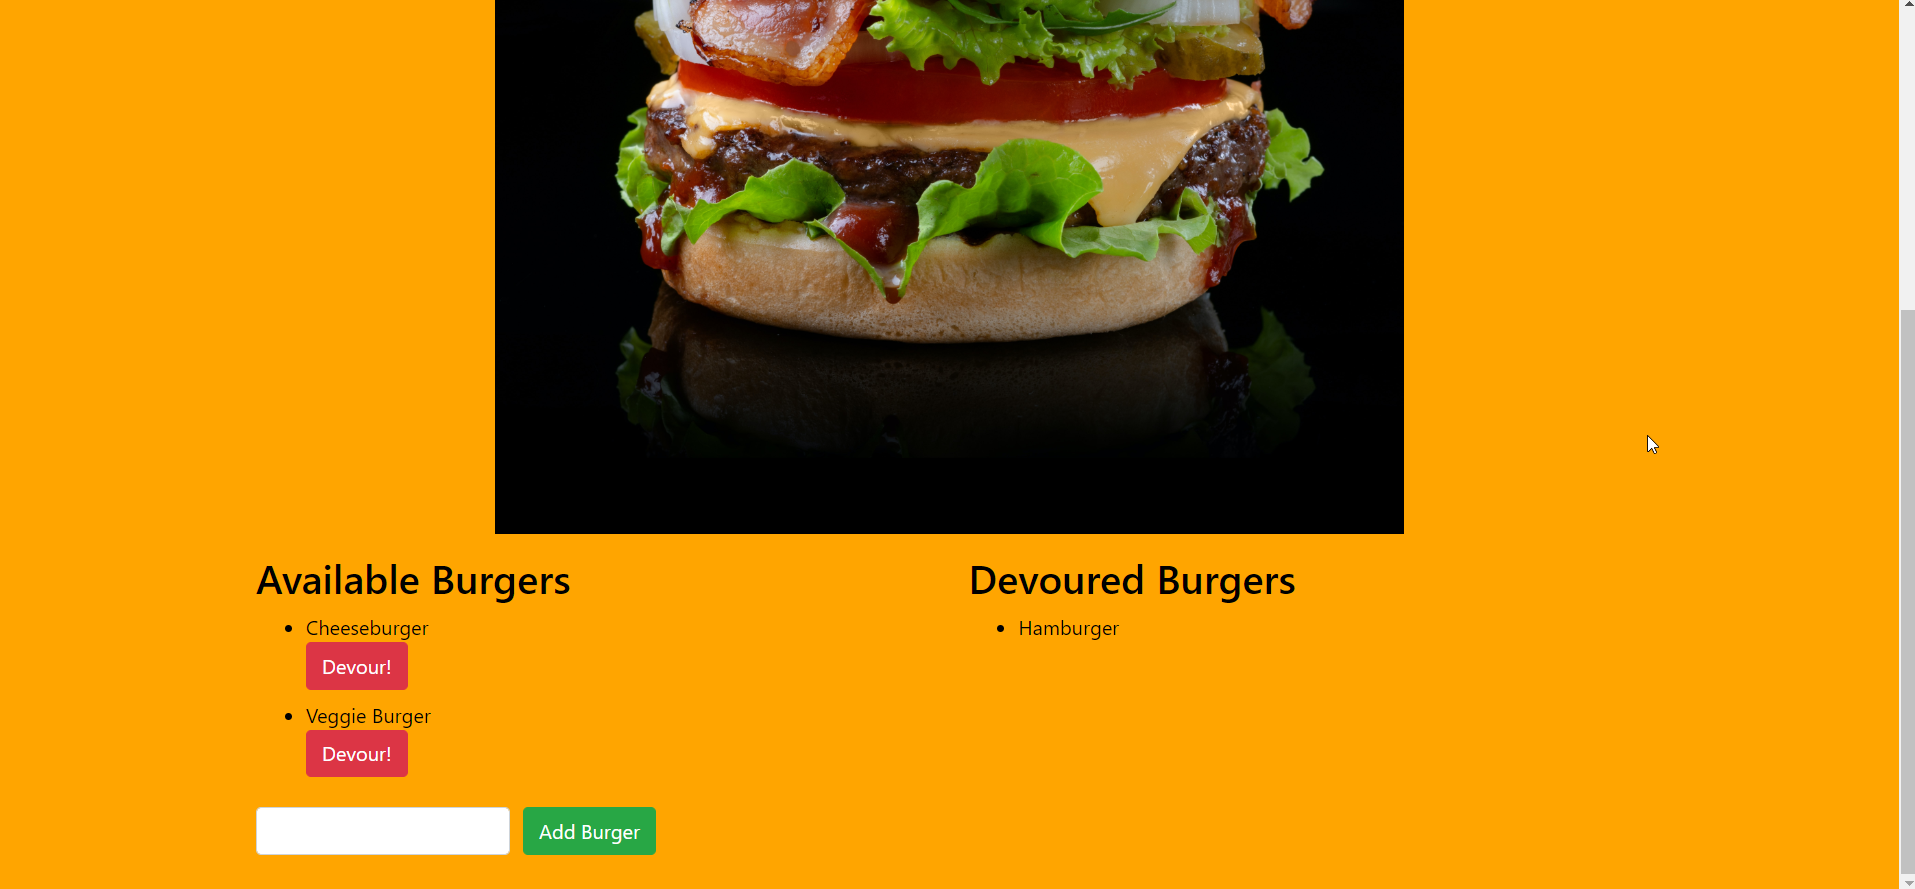
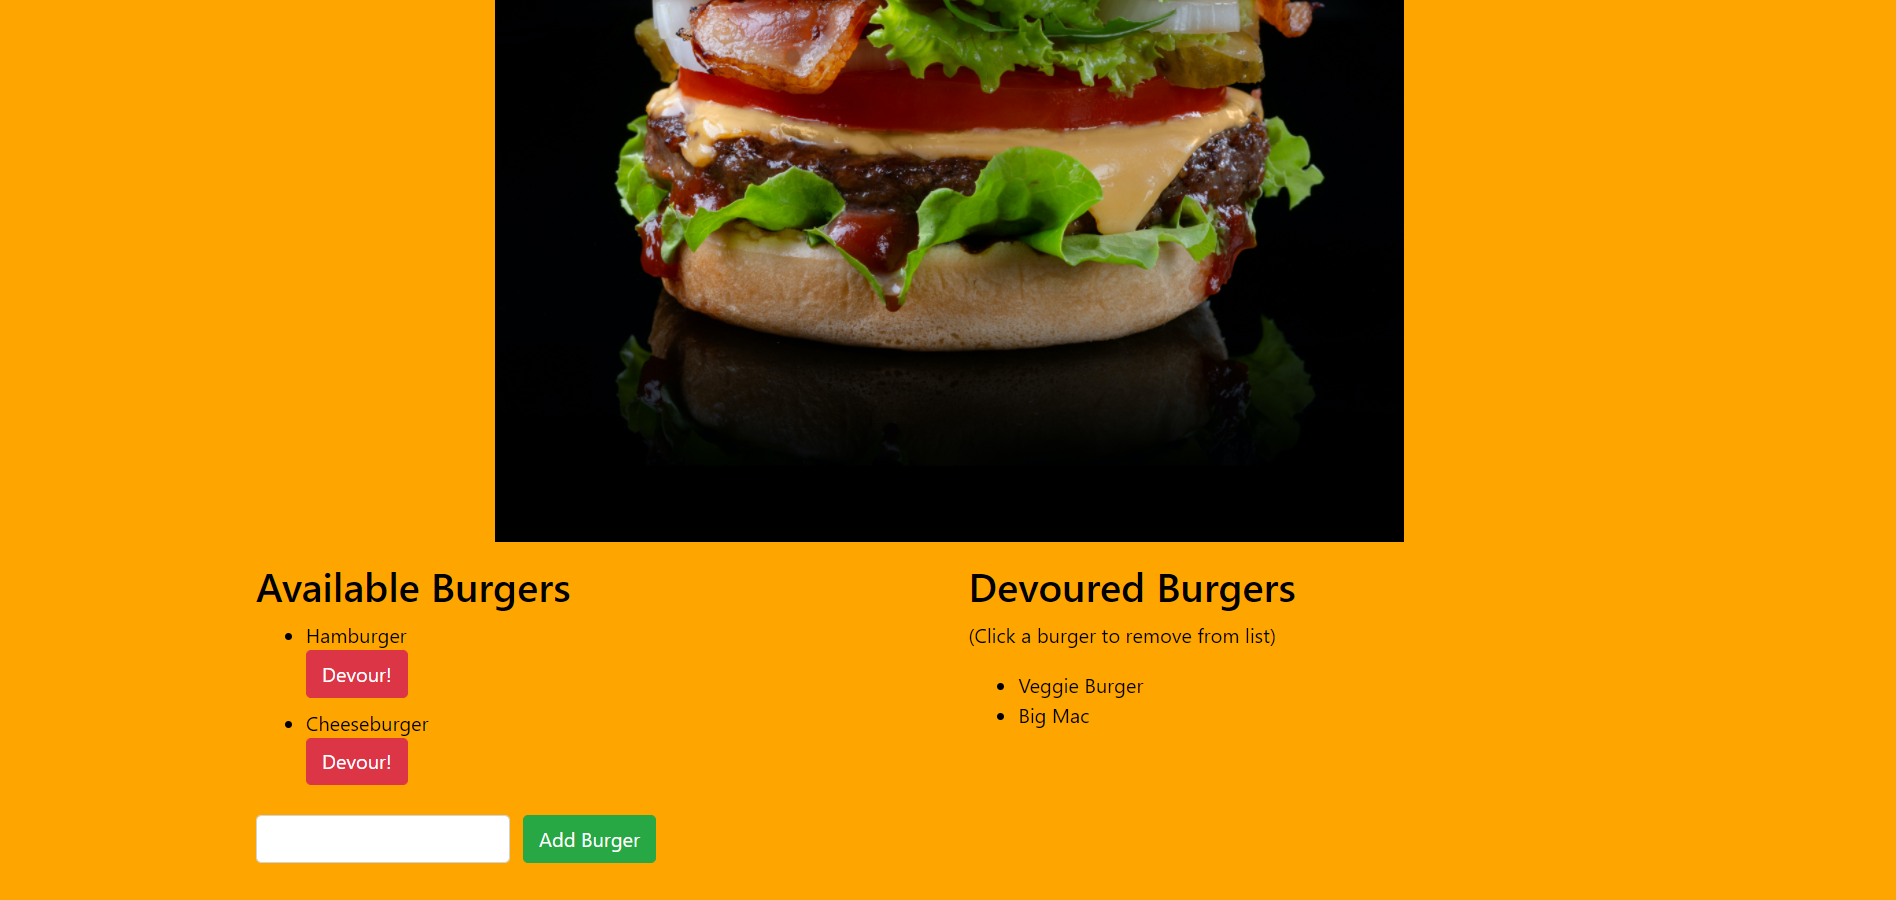
Updated README and screenshot.

diff --git a/README.md b/README.md
@@ -16,11 +16,22 @@ An interactive web page that allows users to submit burgers that they would like
 
 ## Installation
 
-To test the app's functionality in a local environment, first create the burgers_db database and its table using MySQL. A schema and seeds file can be found in the db directory. Then, enter your password into the connection.js file. Finally, run "node server" to access the web page from localhost:8080.
+To test the app's functionality in a local environment, first create the burgers_db database and its table using MySQL. A schema and seeds file can be found in the db directory. Then, create a `.env` file containing the host name, port number, username, password and database name.
+
+Example:
+```
+DB_HOST=localhost
+DB_PORT=1111
+DB_USER=root
+DB_PASS=password
+DB_DATABASE=burgers_db
+```
+
+Run "npm start" to access the web page from localhost:8080.
 
 ## Usage
 
-Submit burgers to devour and devour them by clicking the "Devour!" button.
+Submit burgers to devour. Devour them by clicking the "Devour!" button. Remove devoured burgers by clicking on the burger you wish to remove.
 
 ![Screenshot of Application](public/assets/img/screenshot.png)
 
